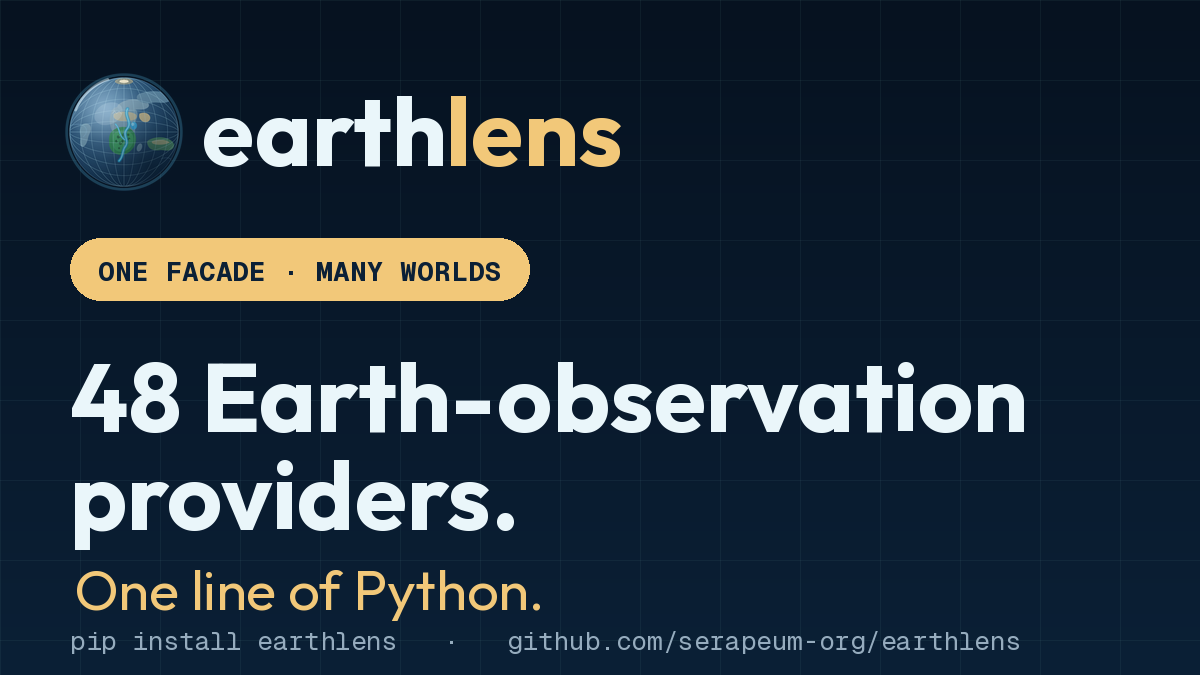
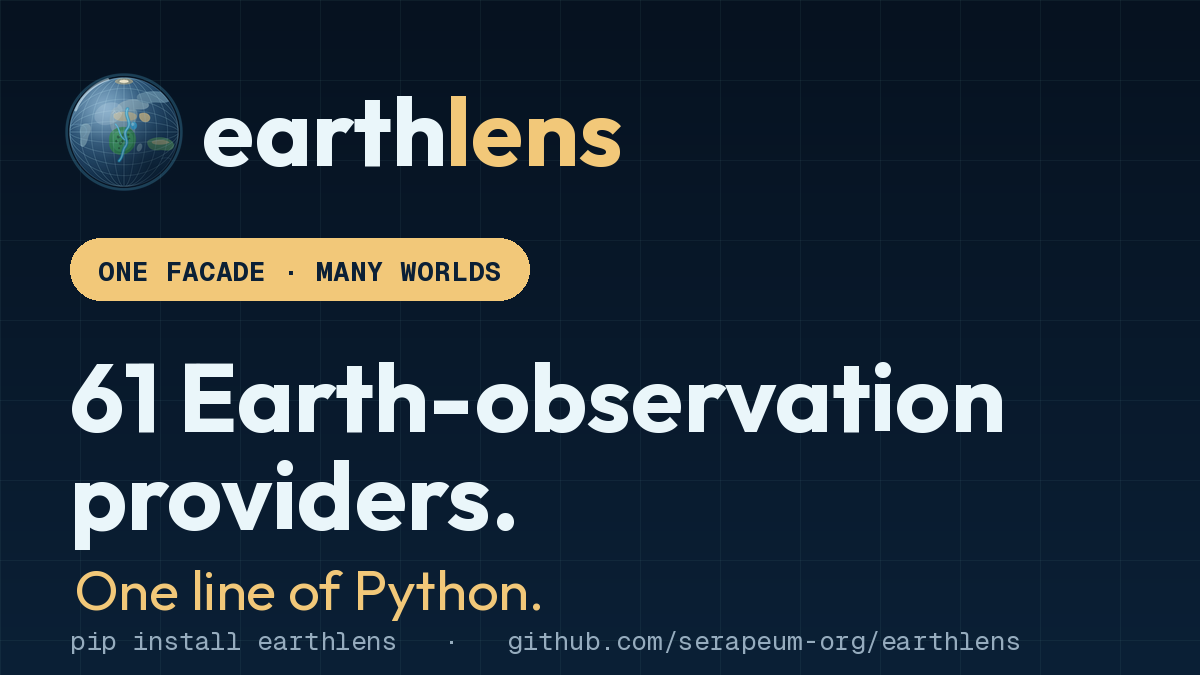
release: 0.16.0 (#1091)

Changed region(s): [[0.0617, 0.5289, 0.8633, 0.6533]]

diff --git a/README.md b/README.md
@@ -1,6 +1,6 @@
 <p align="center">
   <img src="docs/_images/branding/earthlens-brand-kit/docs/readme-banner.png" width="820"
-       alt="earthlens — 48 Earth-observation providers · one facade · modular install">
+       alt="earthlens — 61 Earth-observation providers · one facade · modular install">
 </p>
 
 [![Tests](https://github.com/serapeum-org/earthlens/actions/workflows/tests.yml/badge.svg)](https://github.com/serapeum-org/earthlens/actions/workflows/tests.yml)
@@ -29,7 +29,7 @@ earthlens — a unified Python client for satellite & climate data
 =====================================================================
 
 **earthlens** gives you one consistent Python API for downloading satellite,
-climate, and geospatial data from **48 providers** — climate reanalysis,
+climate, and geospatial data from **61 providers** — climate reanalysis,
 satellite imagery, ocean models, weather forecasts, natural-hazard feeds, air
 quality, biodiversity, population, and more — and turning the results into
 analysis-ready GeoTIFFs, GeoDataFrames, or tables.
@@ -82,12 +82,12 @@ study, or anything else downstream.
 Features
 --------
 
-- **48 backends, one facade.** `EarthLens(data_source=...)` routes to any
+- **61 backends, one facade.** `EarthLens(data_source=...)` routes to any
   provider without changing the rest of your code. Backends are discovered
   through entry points and imported lazily, so the SDK for a provider you never
   touch is never loaded.
 - **Cross-provider discovery.** `find("precipitation")` tells you which of the
-  48 providers serve a dataset, offline, before you commit to one; `search(...)`
+  61 providers serve a dataset, offline, before you commit to one; `search(...)`
   dry-runs a request and lists exactly what it would fetch.
 - **YAML variable catalogs** per provider — every variable carries metadata:
   NetCDF name, units, accumulation semantics (`is_flux`), allowed pressure
@@ -117,7 +117,7 @@ Features
 Supported data sources
 ----------------------
 
-`earthlens` wraps 48 providers behind the one `EarthLens(data_source=..., ...)` facade —
+`earthlens` wraps 61 providers behind the one `EarthLens(data_source=..., ...)` facade —
 pass the `data_source` value below and everything else (auth, request shaping, output
 format) is handled per-backend. See [Data Sources](https://serapeum-org.github.io/earthlens/examples/data-sources/)
 for the full walkthrough of each one.
@@ -465,7 +465,7 @@ Start here:
 | Page | What it covers |
 |---|---|
 | [Getting started](https://serapeum-org.github.io/earthlens/getting-started/) | Install to first file on disk. |
-| [Discovering datasets](https://serapeum-org.github.io/earthlens/discovery/) | `sources()` / `find()` / `search()` across all 48 providers. |
+| [Discovering datasets](https://serapeum-org.github.io/earthlens/discovery/) | `sources()` / `find()` / `search()` across all 61 providers. |
 | [Supported providers](https://serapeum-org.github.io/earthlens/reference/providers/) | Keys, output kinds, auth, and extras for every backend. |
 | [Temporal aggregation](https://serapeum-org.github.io/earthlens/aggregation/) | Reduce a stack into windowed composites. |
 | [Troubleshooting](https://serapeum-org.github.io/earthlens/troubleshooting/) | When a download fails, and what to change. |

diff --git a/docs/reference/provider-extras.md b/docs/reference/provider-extras.md
@@ -3,7 +3,7 @@
 Which pip **extra** (if any) each earthlens backend needs, the **SDK** it pulls, its **distribution**, and whether
 it is bundled in `earthlens[all]`.
 
-**At a glance:** **50 backends** · **33 extras** (31 in `all`, 2 held out) · **19 backends are SDK-free** (no extra
+**At a glance:** **61 backends** · **33 extras** (31 in `all`, 2 held out) · **30 backends are SDK-free** (no extra
 — they ship with their thematic distribution and just work).
 
 - **SDK-bearing backend** → `pip install "earthlens[<extra>]"`.
@@ -50,7 +50,7 @@ it is bundled in `earthlens[all]`.
 | `usgs_water` | ocean | `usgs-water` | `dataretrieval` | ✅ |
 | `worldpop` | land | `worldpop` | `worldpoppy`, `py7zr` | ✅ |
 
-## Backends with NO extra — SDK-free (19)
+## Backends with NO extra — SDK-free (30)
 
 These use only core + pyramids (FTP / plain HTTP / static files), so there is **no extra to install** — they ship
 with their thematic distribution and work out of the box.
@@ -58,15 +58,20 @@ with their thematic distribution and work out of the box.
 | Backend | Distribution | Backend | Distribution |
 |---|---|---|---|
 | `admin` | hazards | `airnow` | atmosphere |
-| `bathymetry` | land | `caravan` | ocean |
-| `chc` | atmosphere | `climate_indices` | atmosphere |
-| `drought` | atmosphere | `firms` | hazards |
-| `gdacs` | hazards | `glaciers` | land |
-| `iucn` | land | `nrel` | atmosphere |
+| `aqueduct` | hazards | `bathymetry` | land |
+| `caravan` | ocean | `catrare` | atmosphere |
+| `chc` | atmosphere | `climate-indices` | atmosphere |
+| `drought` | atmosphere | `fabdem` | land |
+| `firms` | hazards | `flodis` | hazards |
+| `flopros` | hazards | `gdacs` | hazards |
+| `glaciers` | land | `hanze` | hazards |
+| `isimip` | atmosphere | `iucn` | land |
+| `jrc-flood` | hazards | `mswep` | atmosphere |
+| `nrel` | atmosphere | `nsi` | hazards |
 | `openaq` | atmosphere | `pvgis` | atmosphere |
-| `risk_indicators` | hazards | `sensor_community` | atmosphere |
-| `soilgrids` | land | `solar_wind_atlas` | atmosphere |
-| `wdpa` | land | | |
+| `radklim` | atmosphere | `risk-indicators` | hazards |
+| `sensor-community` | atmosphere | `soilgrids` | land |
+| `solar-wind-atlas` | atmosphere | `wdpa` | land |
 
 ## Notes
 

diff --git a/docs/change-log.md b/docs/change-log.md
@@ -1,18 +1,31 @@
 # Change Log
 
-## Unreleased
+## 0.16.0 (2026-08-20)
+
+### BREAKING CHANGE
+
+- an omitted path= now writes to the configured output
+directory instead of the working directory, and the facade uses
+<output_dir>/<source> rather than ./earthlens-data/<source>. path=""
+still means the working directory. Old caches are not migrated.
 
 ### Feat
 
-- **ecmwf**: add the GloFAS historical intermediate (ERA5T) reanalysis stream, with a per-row `cds_dataset` override so the consolidated and intermediate configs of one CDS dataset coexist and write to distinct output files (#1039)
+- **core**: configurable cache dir, EUMETSAT end-bound fix, and the 2026 eclipse showcase (#1070)
+- **eea_aq**: add adjacent-era fallback and split empty-result signals (#1066)
+- **ecmwf**: curate the GloFAS historical intermediate stream (#1039)
 
 ### Fix
 
-- **ecmwf**: live-verify all four GloFAS historical variables — real NetCDF names `avg_dis` / `rowe` / `sd` / `swir`, and the per-variable `timespan` (`time_mean` for discharge/runoff, `instantaneous` for snow-depth/soil-wetness) (#1039)
+- **docs**: repair the brand guide and restore the head overrides
+- **osm**: surface opaque ohsome failures as typed, logged errors (#1072)
+- **gdacs**: retry SEARCH and skip live tests on a persistent upstream failure (#1071)
+- **overture**: resolve the release live instead of globbing the bundled pin (#1069)
+- **earthdata**: force IPv4 on the shared Earthdata Login path only on a dead IPv6 route (#1035)
 
-### Docs
+### Refactor
 
-- **ecmwf**: add a runnable GloFAS historical intermediate example notebook (#1039)
+- **base**: consolidate the AOI-sidecar cache and windowed /vsicurl read (#1067)
 
 ## 0.15.0 (2026-08-14)
 

diff --git a/docs/discovery.md b/docs/discovery.md
@@ -1,6 +1,6 @@
 # Discovering datasets
 
-With 50 providers and thousands of datasets between them, the hard part is often not downloading — it is working
+With 61 providers and thousands of datasets between them, the hard part is often not downloading — it is working
 out *which* provider serves what you want, and what it is called there. earthlens exposes three functions for
 that, all importable from `earthlens.core`:
 
@@ -42,7 +42,7 @@ against every registered provider's catalog and collects the hits, returning `{p
 from earthlens.core import find
 
 matches = find("precipitation")
-len(matches)          # 29 providers matched
+len(matches)          # 37 providers matched
 
 matches["chc"]        # ['prelim-global-pentad', 'chirp-daily', 'chirtsdaily-tmin', ...]
 matches["cmip6"]      # ['tasmin', 'sfcWind']
@@ -104,7 +104,7 @@ paths = lens.download()       # then fetch
 
 A typical path from "I need rainfall over Colombia" to a download:
 
-1. **`find("precipitation")`** — narrow 50 providers to a handful.
+1. **`find("precipitation")`** — narrow 61 providers to a handful.
 2. Read the candidates' [provider pages](reference/providers.md) — coverage, resolution, licence, auth.
 3. **`search(...)`** — confirm the request resolves to the granules you expect, on the backends that support it.
 4. **`download()`** — fetch. On a backend without `search()`, go straight here.

diff --git a/docs/_images/branding/earthlens-brand-kit/BRAND-GUIDE.md b/docs/_images/branding/earthlens-brand-kit/BRAND-GUIDE.md
@@ -51,3 +51,16 @@ Post `social/announcement-card.png` + `animation/earthlens-logo-orbit.gif` for t
 ## Clear space & don't
 Keep clear space ≥ the height of the satellite around the mark. Don't recolor the wordmark,
 stretch the mark, or place the transparent logo on a busy photo without a navy scrim.
+
+## Overlay variant — `earthlens-lockup-stacked-overlay`
+For placing the mark over **arbitrary imagery** (photos, satellite scenes, video) at watermark scale,
+down to **80 px wide**. Unlike the transparent lockup, it carries its **own rounded navy scrim**
+(`#091c30` @ 0.82, 14% corner radius) with an optional gold inset hairline — so the "navy-scrim"
+rule is already satisfied and it reads on anything from pure black to pure white.
+
+It is a reduced form: enlarged wordmark (`earth` / `lens` stacked), a simplified high-contrast globe,
+**no satellite and no tagline** (both alias away at watermark scale). Brand ink values are unchanged;
+only the globe fill is lightened to meet WCAG non-text contrast against the plate.
+
+Files: `logo/earthlens-lockup-stacked-overlay.svg` (vector source) · `logo/earthlens-lockup-stacked-overlay.png` (512 px RGBA).
+Minimum width **80 px**. Do not use it below that, and don't disable the plate when placing over imagery.

diff --git a/docs/index.md b/docs/index.md
@@ -1,4 +1,4 @@
-![earthlens — one Python facade for 48 Earth-observation data providers](_images/branding/earthlens-brand-kit/docs/docs-hero.png)
+![earthlens — one Python facade for 61 Earth-observation data providers](_images/branding/earthlens-brand-kit/docs/docs-hero.png)
 
 # earthlens
 
@@ -11,7 +11,7 @@
 [![codecov](https://codecov.io/gh/serapeum-org/earthlens/branch/main/graph/badge.svg)](https://codecov.io/gh/serapeum-org/earthlens)
 
 **earthlens** is a Python package providing a single, unified API for downloading
-satellite, climate, and geospatial data from **50 providers** — climate
+satellite, climate, and geospatial data from **61 providers** — climate
 reanalysis, satellite imagery, ocean models, weather forecasts, natural-hazard
 feeds, air quality, biodiversity, population, and more. Pick a `data_source`, describe the area
 and dates you want, and call `download()`; the matching backend handles auth,

diff --git a/docs/examples/data-sources.md b/docs/examples/data-sources.md
@@ -6,7 +6,7 @@ earthlens is designed following the Template/Factory design pattern to create an
 
 The main objective is to provide a unified API for all remote sensing data sources, where you only have to worry about the domain of your data (date range and spatial extent) and the package does everything in the backend.
 
-`earthlens` provides a unified API across **50 providers** — see [All supported providers](#all-supported-providers)
+`earthlens` provides a unified API across **61 providers** — see [All supported providers](#all-supported-providers)
 below for the full index, or jump straight to a provider's own reference page
 (`docs/reference/<id>/introduction.md`) for its full walkthrough.
 

diff --git a/docs/overview/architecture.md b/docs/overview/architecture.md
@@ -6,7 +6,7 @@ how the facade, the backend registry, the shared base contracts, and the per-pro
 ## System overview
 
 `EarthLens` is a thin facade. It resolves a `data_source=` key to a backend class, instantiates it with the
-request you described, and delegates. Every one of the **50 provider backends** implements the same
+request you described, and delegates. Every one of the **61 provider backends** implements the same
 `AbstractDataSource` contract, so the call shape does not change when you switch providers.
 
 ```mermaid

diff --git a/docs/getting-started.md b/docs/getting-started.md
@@ -85,7 +85,7 @@ see each backend's reference page.
 
 ## Next steps
 
-- [Discovering datasets](discovery.md) — find which of the 50 providers has
+- [Discovering datasets](discovery.md) — find which of the 61 providers has
   what you need, with `sources()` / `find()` / `search()`.
 - [Temporal aggregation](aggregation.md) — reduce a downloaded stack into
   windowed composites (daily mean, monthly sum, …).

diff --git a/docs/reference/core-functions.md b/docs/reference/core-functions.md
@@ -1,7 +1,7 @@
 # Core functions
 
 The module-level surface of `earthlens.core` — one-shot helpers that wrap the
-[`EarthLens`](earthlens.md) facade, plus the discovery functions for finding a dataset across all 48 providers.
+[`EarthLens`](earthlens.md) facade, plus the discovery functions for finding a dataset across all 61 providers.
 
 ```python
 from earthlens.core import download, find, search, sources

diff --git a/docs/reference/base/contracts.md b/docs/reference/base/contracts.md
@@ -1,6 +1,6 @@
 # Base contracts
 
-`earthlens.base` holds the contracts every one of the 48 provider backends implements. This page documents the
+`earthlens.base` holds the contracts every one of the 61 provider backends implements. This page documents the
 shared surface — what a backend must provide, what it gets for free, and the guarantees the base layer makes about
 memory, errors, and re-runs.
 

diff --git a/docs/installation.md b/docs/installation.md
@@ -147,7 +147,7 @@ Engine and nothing else.
 directly and skip the others' backends entirely:
 
 ```bash
-pip install earthlens-imagery[gee]     # Earth Engine, without the other 40 backends
+pip install earthlens-imagery[gee]     # Earth Engine, without the other 53 backends
 pip install earthlens-ocean[argo,cmems]
 pip install earthlens-atmosphere[all]  # every atmosphere SDK
 ```
